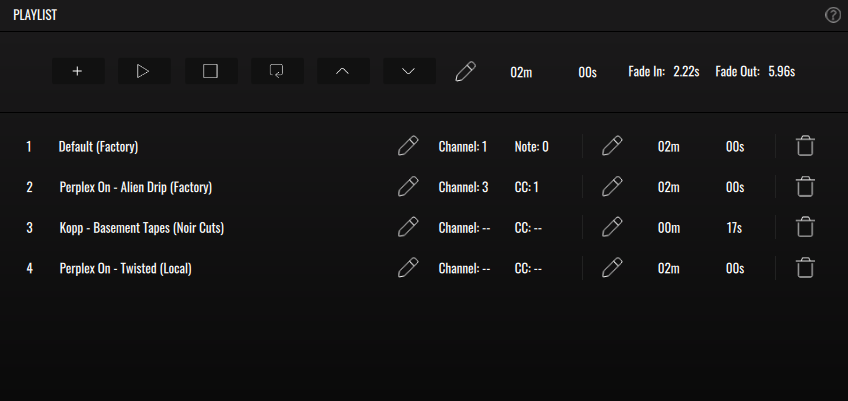
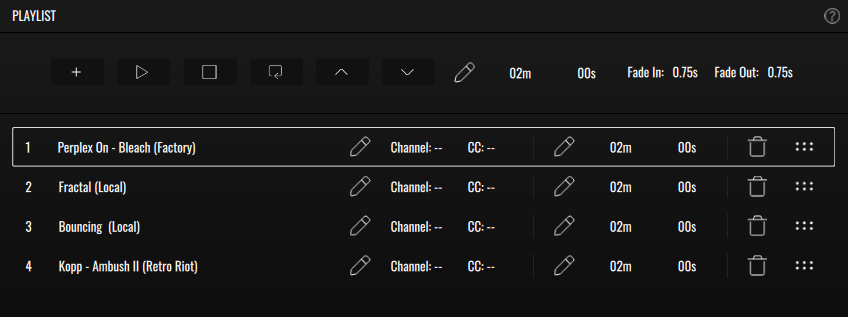
Update Playlist images and add Drag indicator info

diff --git a/vs/vs2/playlist.md b/vs/vs2/playlist.md
@@ -11,8 +11,8 @@ VS offers a way to create custom preset playlists, useful in live situations or 
 
 By default, the playlist is empty. You can freely add presets to it, and each slot is MIDI mappable, making it easy to trigger specific presets via MIDI messages. This makes the playlist panel not only a performance tool but also a convenient MIDI mapping interface for swapping presets.
 
-It is also a way of having a specific list of presets which can be selected using the arrow buttons.
-Once you have a list of presets, you can define the duration of each one along with fade in and fade out times for smooth transitions. The fade times are applied when a preset is selected manually (via mouse click), triggered through MIDI, or when the current preset’s time is up and it moves on to the next one.
+It is also a way of having a list of presets which can be selected using the arrow buttons.
+Once you have a prepared playlist, you can define the duration of each one along with fade in and fade out times for smooth transitions. The fade times are applied when a preset is selected manually (via mouse click), triggered through MIDI, or when the current preset’s time is up and it moves on to the next one.
 
 ### Top Bar
 
@@ -51,6 +51,7 @@ Once you have a list of presets, you can define the duration of each one along w
 - **Pencil** - When active lets you change the entry duration.
 - **Time** - Entry duration in minutes and seconds.
 - **Bin** - Remove the current entry.
+- **Drag indicator** - Press and drag to change the entry's position in the Playlist.
 
 ---
 
